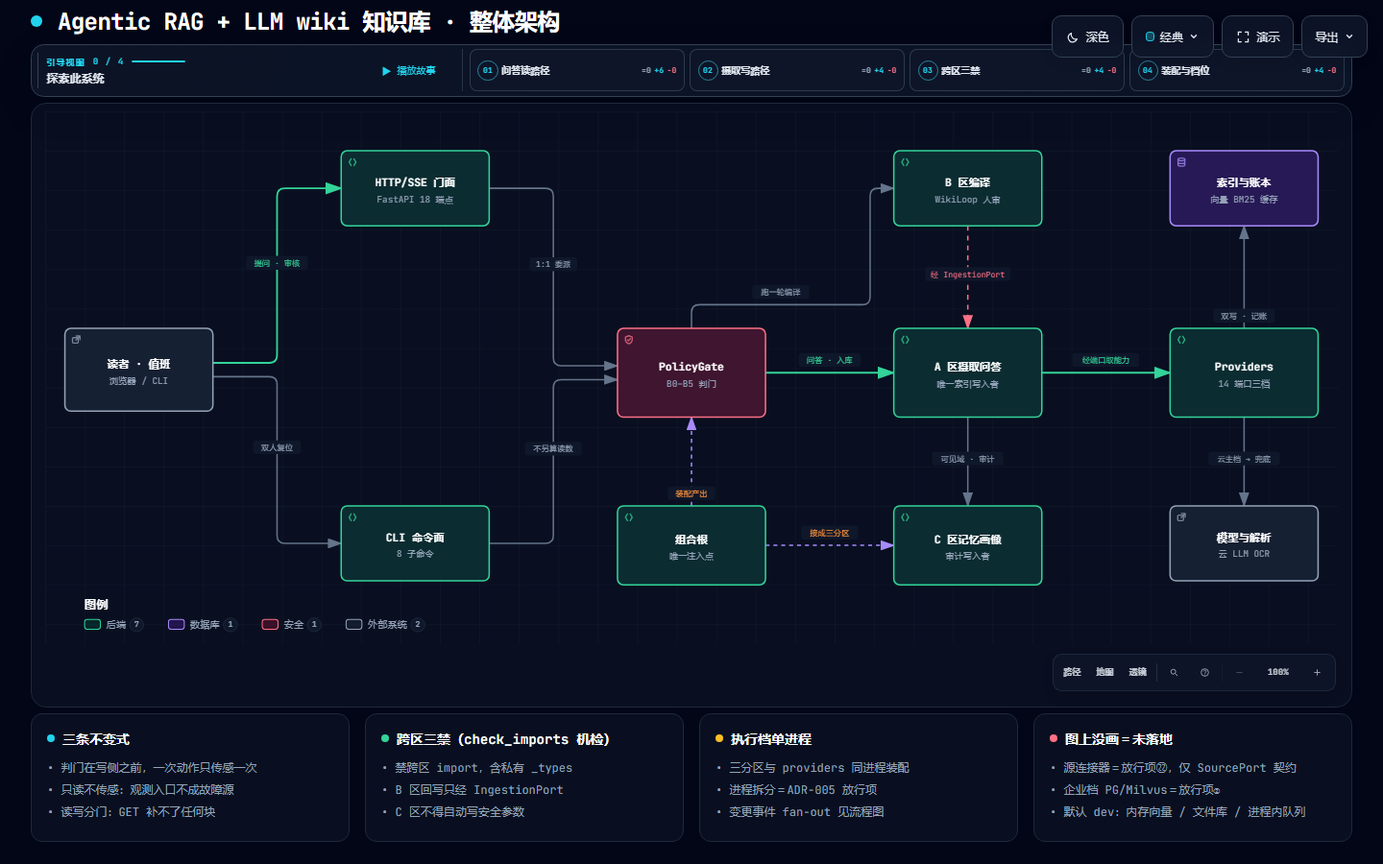
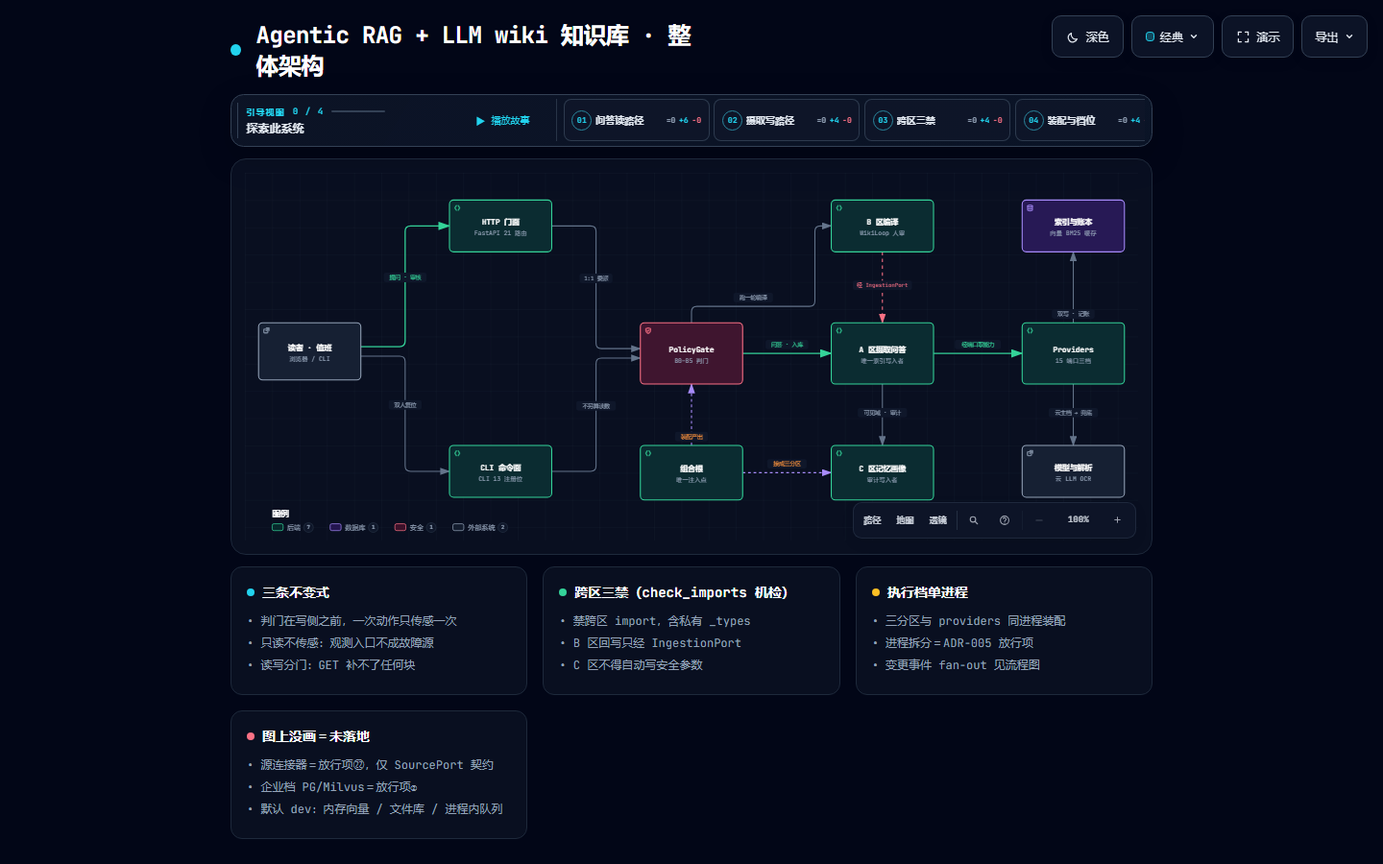
docs: 完善 GitHub 发布页并同步架构与安全门禁
- 重写 README，补充 Mermaid 架构、流程图、快速开始与能力边界
- 校准架构读数并清理本机路径，CI 移至仓库根且仅扫描跟踪文件

diff --git a/agentic-rag-wiki/docs/architecture/agentic-rag-wiki.architecture.html b/agentic-rag-wiki/docs/architecture/agentic-rag-wiki.architecture.html
@@ -5060,26 +5060,26 @@
         <text data-detail="context" x="95" y="276" class="t-muted" font-size="9" text-anchor="middle">浏览器 / CLI</text>
         </g>
 
-        <g id="node-http" data-node-id="http" data-node-label="HTTP/SSE 门面" tabindex="0" role="button" aria-label="聚焦HTTP/SSE 门面，FastAPI 18 端点, 架构组件" aria-pressed="false" data-node-kind="backend" data-node-sublabel="FastAPI 18 端点" data-node-context="架构组件">
-          <title>HTTP/SSE 门面 · FastAPI 18 端点 · 架构组件</title>
+        <g id="node-http" data-node-id="http" data-node-label="HTTP 门面" tabindex="0" role="button" aria-label="聚焦HTTP 门面，FastAPI 21 路由, 架构组件" aria-pressed="false" data-node-kind="backend" data-node-sublabel="FastAPI 21 路由" data-node-context="架构组件">
+          <title>HTTP 门面 · FastAPI 21 路由 · 架构组件</title>
           <rect x="300" y="40" width="150" height="76" rx="6" class="c-mask"/>
           <rect x="300" y="40" width="150" height="76" rx="6" class="c-backend" stroke-width="1.5"/>
           <g aria-hidden="true" data-semantic-sigil="backend" class="semantic-sigil s-backend" transform="translate(306 46) scale(0.6875)">
             <path d="M6 3 3 8l3 5M10 3l3 5-3 5"/>
           </g>
-          <text data-node-label="" data-detail-anchor="" x="375" y="76" class="t-primary" font-size="11" font-weight="600" text-anchor="middle">HTTP/SSE 门面</text>
-        <text data-detail="context" x="375" y="92" class="t-muted" font-size="9" text-anchor="middle">FastAPI 18 端点</text>
+          <text data-node-label="" data-detail-anchor="" x="375" y="76" class="t-primary" font-size="11" font-weight="600" text-anchor="middle">HTTP 门面</text>
+        <text data-detail="context" x="375" y="92" class="t-muted" font-size="9" text-anchor="middle">FastAPI 21 路由</text>
         </g>
 
-        <g id="node-cli" data-node-id="cli" data-node-label="CLI 命令面" tabindex="0" role="button" aria-label="聚焦CLI 命令面，8 子命令, 架构组件" aria-pressed="false" data-node-kind="backend" data-node-sublabel="8 子命令" data-node-tag="复位入口" data-node-context="架构组件">
-          <title>CLI 命令面 · 8 子命令 · 架构组件 · 复位入口</title>
+        <g id="node-cli" data-node-id="cli" data-node-label="CLI 命令面" tabindex="0" role="button" aria-label="聚焦CLI 命令面，CLI 13 注册位, 架构组件" aria-pressed="false" data-node-kind="backend" data-node-sublabel="CLI 13 注册位" data-node-tag="复位入口" data-node-context="架构组件">
+          <title>CLI 命令面 · CLI 13 注册位 · 架构组件 · 复位入口</title>
           <rect x="300" y="400" width="150" height="76" rx="6" class="c-mask"/>
           <rect x="300" y="400" width="150" height="76" rx="6" class="c-backend" stroke-width="1.5"/>
           <g aria-hidden="true" data-semantic-sigil="backend" class="semantic-sigil s-backend" transform="translate(306 406) scale(0.6875)">
             <path d="M6 3 3 8l3 5M10 3l3 5-3 5"/>
           </g>
           <text data-node-label="" data-detail-anchor="" x="375" y="436" class="t-primary" font-size="11" font-weight="600" text-anchor="middle">CLI 命令面</text>
-        <text data-detail="context" x="375" y="452" class="t-muted" font-size="9" text-anchor="middle">8 子命令</text>
+        <text data-detail="context" x="375" y="452" class="t-muted" font-size="9" text-anchor="middle">CLI 13 注册位</text>
         <text data-detail="fine" x="375" y="468" class="t-backend" font-size="7" text-anchor="middle">复位入口</text>
         </g>
 
@@ -5140,15 +5140,15 @@
         <text data-detail="context" x="935" y="454" class="t-muted" font-size="9" text-anchor="middle">审计写入者</text>
         </g>
 
-        <g id="node-ports" data-node-id="ports" data-node-label="Providers" tabindex="0" role="button" aria-label="聚焦Providers，14 端口三档, 架构组件" aria-pressed="false" data-node-kind="backend" data-node-sublabel="14 端口三档" data-node-context="架构组件">
-          <title>Providers · 14 端口三档 · 架构组件</title>
+        <g id="node-ports" data-node-id="ports" data-node-label="Providers" tabindex="0" role="button" aria-label="聚焦Providers，15 端口三档, 架构组件" aria-pressed="false" data-node-kind="backend" data-node-sublabel="15 端口三档" data-node-context="架构组件">
+          <title>Providers · 15 端口三档 · 架构组件</title>
           <rect x="1140" y="220" width="150" height="90" rx="6" class="c-mask"/>
           <rect x="1140" y="220" width="150" height="90" rx="6" class="c-backend" stroke-width="1.5"/>
           <g aria-hidden="true" data-semantic-sigil="backend" class="semantic-sigil s-backend" transform="translate(1146 226) scale(0.6875)">
             <path d="M6 3 3 8l3 5M10 3l3 5-3 5"/>
           </g>
           <text data-node-label="" data-detail-anchor="" x="1215" y="263" class="t-primary" font-size="11" font-weight="600" text-anchor="middle">Providers</text>
-        <text data-detail="context" x="1215" y="279" class="t-muted" font-size="9" text-anchor="middle">14 端口三档</text>
+        <text data-detail="context" x="1215" y="279" class="t-muted" font-size="9" text-anchor="middle">15 端口三档</text>
         </g>
 
         <g id="node-stores" data-node-id="stores" data-node-label="索引与账本" tabindex="0" role="button" aria-label="聚焦索引与账本，向量 BM25 缓存, 架构组件" aria-pressed="false" data-node-kind="database" data-node-sublabel="向量 BM25 缓存" data-node-context="架构组件">

diff --git a/agentic-rag-wiki/docs/architecture/agentic-rag-wiki.architecture.visual-check.html b/agentic-rag-wiki/docs/architecture/agentic-rag-wiki.architecture.visual-check.html
@@ -9,7 +9,7 @@
 </style>
 </head>
 <body>
-<header><h1>Archify visual-check</h1><p>agentic-rag-wiki.architecture.html · automated containment pass · visual review pending</p></header>
+<header><h1>Archify visual-check</h1><p>agentic-rag-wiki.architecture.html · automated containment pass · visual review passed</p></header>
 <main class="grid">
       <figure>
         <img src="agentic-rag-wiki.architecture.visual-check.1440x900.light.png" alt="light 1440 by 900">

diff --git a/bench/p3_confirm.py b/bench/p3_confirm.py
@@ -1,10 +1,11 @@
 # -*- coding: utf-8 -*-
 """P3 复测：加密批档找真实拐点 + 可复现性 + 超订行为确认"""
+import os
 import time
 import torch
 from sentence_transformers import SentenceTransformer
 
-MODEL = r"C:\Users\z1499\.cache\modelscope\models\Qwen--Qwen3-Embedding-0.6B\snapshots\master"
+MODEL = os.environ.get("P3_MODEL", "Qwen3-Embedding-0.6B")
 base = ("企业知识库制度文档示例段落，规定信息化项目的立项流程、预算审批权限与验收标准。"
         "项目组应当在启动前完成需求调研，并提交可行性研究报告供委员会评审。")
 chunk = (base * 20)[:950]

diff --git a/bench/p3_sustained.py b/bench/p3_sustained.py
@@ -3,13 +3,14 @@
 教训记录：v1 误用 tokenize(...)[0] 取到 BatchEncoding 首键，块长校准恒判为 6 token，
         实际跑了 ~1200 token 块，数据作废。v2 用 tok(text)['input_ids'] 计数。
 """
+import os
 import subprocess
 import time
 import torch
 from transformers import AutoTokenizer
 from sentence_transformers import SentenceTransformer
 
-MODEL = r"C:\Users\z1499\.cache\modelscope\models\Qwen--Qwen3-Embedding-0.6B\snapshots\master"
+MODEL = os.environ.get("P3_MODEL", "Qwen3-Embedding-0.6B")
 TARGET = 800
 PHYS_GB = torch.cuda.get_device_properties(0).total_memory / 2**30
 SUSTAIN = 150

diff --git a/README.md b/README.md
@@ -1,64 +1,206 @@
-# Agentic RAG + LLM Wiki 企业知识库
+<div align="center">
 
-一套「企业知识库系统」的完整工程蓝图 + 单机可跑实现骨架：**Agentic RAG**（多跳检索、引用溯源、拒答优于错答）+ **LLM Wiki**（LLM 持续把原始文档编译成人审发布的结构化知识页）。
+# Agentic RAG + LLM Wiki
 
-> **一句话定位**：架构按企业档（10 万员工 / 百万文档）设计，**执行档 = 单机缩量**（5 万文档 / 1 千变更每日 / ≤5 并发 / RTX 5060 8GB 全程可跑）。承诺只写在能亲手跑通的那一档；企业档与所有依赖真实世界输入的能力均按「诚实账」标注在放行清单里。
+**企业知识库问答 + 人审知识页编译回路**
+
+[![CI](https://github.com/wuyuwuqiu666/agentic-rag-wiki/actions/workflows/ci.yml/badge.svg)](https://github.com/wuyuwuqiu666/agentic-rag-wiki/actions/workflows/ci.yml)
+[![Python](https://img.shields.io/badge/Python-3.12-3776AB?logo=python&logoColor=white)](https://www.python.org/)
+[![PRD](https://img.shields.io/badge/PRD-v0.7.1-orange)](PRD-agentic-rag-llm-wiki.md)
+[![状态](https://img.shields.io/badge/status-review-yellow)](#状态与边界)
+
+[快速开始](#快速开始) · [架构总览](#架构总览) · [文档导航](#文档导航) · [提交记录](https://github.com/wuyuwuqiu666/agentic-rag-wiki/commits/master)
+
+</div>
+
+---
+
+一套「企业知识库系统」的完整工程蓝图 + 单机可跑实现骨架：**Agentic RAG** 负责多跳检索、引用溯源与低置信拒答；**LLM Wiki** 负责把原始文档持续编译成人审发布的结构化知识页。
+
+> **一句话定位**：架构按企业档（10 万员工 / 百万文档）设计，**执行档 = 单机缩量**（5 万文档 / 1 千变更每日 / ≤5 并发 / RTX 5060 8GB 全程可跑）。承诺只写在能亲手跑通的那一档；企业档与依赖真实世界输入的能力均按「诚实账」标注在放行清单里。
+>
+> **发布边界**：GitHub 仓库页发布源码、文档与架构图，不会直接运行 Python/FastAPI 后端。Web UI 需按下方步骤本地构建，并由 HTTP 门面同源伺服；本仓库不宣称已有云端演示或企业级在线服务。
 
 ## 核心特性
 
-- **一切皆组件**：15 个端口协议（Embedding / Rerank / Llm / VectorStore / Lexical / ObjectStore / Mq / Cache / Ocr / FileParser / Graph / Ingestion / Guard / Audit / Inflight），云端与本地双实现并存，组合根唯一注入，换实现只改装配、业务代码零改动。
-- **Agentic RAG**：ACL pre-filter → 向量 + BM25 双召回 → RRF(k=60) 融合 → cross-encoder rerank（≤50 候选）→ top-n 5–8 进 LLM；逐句引用校验、无据句拦截、低置信拒答、步数预算 ≤8。
-- **LLM Wiki**：triage 入选判定 → 大纲/草稿 → 人审发布门（代码不变式，草稿不可直发）→ 高权威块回写索引（wiki 优先）；回写 ACL = 源块交集（封跨源泄露）。
-- **分层熔断 B0–B5**：判定（零 IO 纯函数）与执行分离，规则 YAML as-code；v1 仅 B1（批量删除）/ B3（供给）/ B5（完整性）硬断，B2 软告警、B4 shadow；B0 总闸冻结写侧保读侧、双人复位、**重启不算复位**（append-only 审计回放）。
-- **护栏即代码**：10 道 harness 机检门（import 方向 / 跨区三禁 / 契约向后兼容 / 熔断规则 / 参数双级白名单 / 生命周期 / 配置面 / 后端选择 / runbook / 依赖许可证），每条约束都有测试锁。
-- **诚实账**：区分真实现与 dev/fake 档（默认 embedding/rerank/llm 为确定性哈希与模板回显，**不是质量基线**），22 项实机放行项逐条在册。
+- **一切皆组件**：`providers/ports.py` 定义 15 个 Provider Protocol；dev / local / cloud 多实现并存，组合根唯一注入，换实现只改装配，业务代码零 SDK import。
+- **Agentic RAG**：ACL pre-filter → 语义缓存 / 权威页优先 → 向量 + BM25 双召回 → RRF(k=60) 融合 → rerank（≤50 候选）→ top-n 5–8 进 LLM；逐句引用校验、无据句拦截、低置信拒答、步数预算 ≤8。
+- **LLM Wiki**：triage 入选判定 → 大纲 / 草稿 → 人审发布门（草稿不可直发）→ 高权威块经 `IngestionPort` 回写索引；回写 ACL = 源块交集，封跨源泄露。
+- **分层熔断 B0–B5**：判定（零 IO 纯函数）与执行分离，规则 YAML as-code；硬断双人复位，**重启不算复位**，append-only 审计回放。
+- **护栏即代码**：10 道 harness 机检门覆盖 import 方向、跨区三禁、契约兼容、熔断规则、参数白名单、生命周期、配置面、后端选择、runbook 与依赖许可证。
+- **诚实账**：默认 embedding / rerank / llm 为确定性哈希与模板回显，**不是模型质量基线**；真模型效果、真机性能、双存储持久化、外部源连接器与跨人治理流逐项登记，不伪造达标数字。
 
-## 目录结构
+## 架构总览
 
+```mermaid
+flowchart LR
+  U["员工 · 知识管理员 · 运维"] --> W["Web 前端"]
+  U --> CLI["CLI"]
+  W --> G["Gateway · 组合根"]
+  CLI --> G
+  G --> PG["PolicyGate · Inflight"]
+  G --> A["A 区 · 摄取与问答"]
+  G --> B["B 区 · Wiki 编译"]
+  G --> C["C 区 · 记忆与审计"]
+  PG -->|写侧判门| A
+  B -->|IngestionPort 唯一回写| A
+  C -->|可见域 · 审计| A
+  A --> D[("向量 · BM25 · 对象库 · 队列")]
+  P["平台 Providers · 15 个端口"] --> A
+  P --> B
+  P --> C
+  X["云 / 本地模型 · OCR · Office"] -.-> P
 ```
-.
-├── PRD-agentic-rag-llm-wiki.md          # 产品需求定义 v0.7.1（待 B1 评审）
-├── R8-ingest-performance-design.md      # 企业档摄取性能参考设计（归档）
-├── local-model-selection.md             # 本地模型选型调研
-├── bench/                               # P3 本机实测基准与脚本
-└── agentic-rag-wiki/
-    ├── AGENTS.md                        # 全局约束（唯一的全局记忆入口）
-    ├── pyproject.toml / .env.example    # 依赖装配表与配置模板
-    ├── src/
-    │   ├── platform/                    # 平台平面：types/config/providers/breaker/gateway/harness
-    │   └── partitions/                  # 三分区：ingest(A) / wiki(B) / memory(C)
-    ├── docs/adr/                        # 12 份架构决策记录（权威）
-    ├── docs/architecture/               # C4 架构图（Structurizr）与流程图
-    ├── docs/runbooks/                   # 熔断与运维处置页
-    ├── docs/audit/                      # 全生命周期审计台账（编号唯一源）
-    ├── hooks/                           # pre-commit / pre-release
-    └── tests/                           # smoke / contract / chaos / perf / eval（78 文件）
+
+**读图口径**：A / B / C 与 platform 都是逻辑容器，执行档默认单进程，不是五个独立部署单元；A 区是唯一索引写入者；虚线外部能力需显式装配，图中形状不代表已经上线。
+
+### 一次提问如何得到答案
+
+```mermaid
+flowchart TD
+  Q["提问"] --> ACL["ACL pre-filter"]
+  ACL --> CACHE{"语义缓存命中？"}
+  CACHE -->|是| OUT["带出处答案"]
+  CACHE -->|否| WIKI{"published 权威页？"}
+  WIKI -->|是| WOUT["权威页直答"]
+  WIKI -->|否| RET["向量 + BM25 双召回"]
+  RET --> FUSE["RRF 融合"]
+  FUSE --> RER["Rerank · 最多 50 候选"]
+  RER --> GEN["多跳规划 / LLM 生成"]
+  GEN --> CITE["逐句引用校验 · 低置信拒答"]
+  CITE --> DLP["出口 DLP"]
+  DLP --> OUT
 ```
+
+默认 `dev_echo` 只验证控制流与契约；真实模型质量需显式切到 local / cloud 档并另行评测。
+
+### 完整流程与架构资产
+
+<details>
+<summary>展开完整问答链 SVG</summary>
+
+![A 区问答链](agentic-rag-wiki/docs/architecture/preview-flow-ask.svg)
+
+</details>
+
+<details>
+<summary>展开完整摄取与生命周期 SVG</summary>
+
+![A 区摄取链与生命周期](agentic-rag-wiki/docs/architecture/preview-flow-ingest.svg)
+
+</details>
+
+| 资产 | 用途 |
+| --- | --- |
+| [交互式架构 HTML](agentic-rag-wiki/docs/architecture/agentic-rag-wiki.architecture.html) | 下载后用浏览器打开；支持明暗主题、路径聚焦与导出 |
+| [Structurizr DSL](agentic-rag-wiki/docs/architecture/agentic-rag-wiki.structurizr.dsl) | C4 语义源，7 个视图 |
+| [架构理解指南](agentic-rag-wiki/docs/architecture/agentic-rag-wiki.architecture-understanding.md) | 新人建立心智模型、评审者核对声称与执法、运维定位入口 |
+| [逐节点证据索引](agentic-rag-wiki/docs/architecture/agentic-rag-wiki.evidence.md) | 每个架构节点对应真实源码文件与置信档 |
+| [视觉检查页](agentic-rag-wiki/docs/architecture/agentic-rag-wiki.architecture.visual-check.html) | 下载后本地打开；明暗主题、两种视口的架构截图核对 |
 
 ## 快速开始
 
+### 1. 核心闭环（零外部服务）
+
 ```bash
-cd agentic-rag-wiki
-pip install -e ".[dev]"          # 核心依赖极简：pydantic 系列 + PyYAML；其余为可选 extra
-python -m pytest src/platform/breaker tests -q   # 一条命令跑全环
+git clone https://github.com/wuyuwuqiu666/agentic-rag-wiki.git
+cd agentic-rag-wiki/agentic-rag-wiki
+
+python -m venv .venv
+# Windows PowerShell: .venv\Scripts\Activate.ps1
+# macOS / Linux: source .venv/bin/activate
+
+python -m pip install -e ".[dev]"
+python -m pytest src/platform/breaker tests -q
 ```
 
-默认 `Settings` 全为 dev 档（零依赖、零外呼即可跑通闭环）。切真实档只改 `.env` 的 `APP_PROVIDERS__*` 装配位；选云档缺凭证、或非默认档缺驱动一律 fail-loud，**绝不静默回落**。详见 `AGENTS.md §1/§5` 与 `.env.example`。
+默认 `Settings` 全为 dev 档，零依赖外呼即可跑通闭环。切真实档只改 `.env` 的 `APP_PROVIDERS__*` 装配位；选云档缺凭证、或非默认档缺驱动一律 fail-loud，**绝不静默回落**。
+
+```bash
+cp .env.example .env  # Windows: copy .env.example .env
+```
+
+`.env` 已被 Git 忽略；真实凭证只从环境变量读取，禁止写进代码、配置模板或日志。
+
+### 2. Web UI（本地演示档）
+
+```bash
+python -m pip install -e ".[dev,http]"
+
+cd src/platform/gateway/web
+npm install
+npm run build
+cd ../../../..
+
+python -m src.platform.gateway.http
+```
+
+浏览器打开 <http://127.0.0.1:8000>。该页面使用合成 seed 语料验证「答案 ↔ 出处 ↔ Wiki」联动，不是真模型质量演示，也未实现 SSO / LDAP 鉴权。
+
+## 目录结构
+
+```text
+.
+├── .github/workflows/ci.yml             # GitHub Actions：测试、护栏、覆盖率与密钥门禁
+├── PRD-agentic-rag-llm-wiki.md          # 产品需求定义 v0.7.1（待 B1 评审）
+├── R8-ingest-performance-design.md      # 企业档摄取性能参考设计（归档）
+├── local-model-selection.md             # 本地模型选型调研
+├── bench/                               # 本机基准脚本与结果
+└── agentic-rag-wiki/
+    ├── AGENTS.md                        # 全局约束与实机放行清单
+    ├── pyproject.toml / .env.example    # 依赖装配表与配置模板
+    ├── src/
+    │   ├── platform/                    # types / config / providers / breaker / gateway / harness
+    │   └── partitions/                  # ingest(A) / wiki(B) / memory(C)
+    ├── docs/adr/                        # 架构决策记录
+    ├── docs/architecture/               # C4 / 交互式架构 / 两条流程 SVG
+    ├── docs/runbooks/                   # 熔断与运维处置页
+    ├── hooks/                           # pre-commit / pre-release
+    └── tests/                           # 76 个测试文件
+```
 
 ## 文档导航
 
 | 想了解什么 | 读哪里 |
 | --- | --- |
-| 系统目标 / 需求 / 验收口径 / 里程碑 | `PRD-agentic-rag-llm-wiki.md` |
-| 全局工程约束 / 诚实账 / 放行项清单 | `agentic-rag-wiki/AGENTS.md` |
-| 为什么这么设计、推翻过什么 | `agentic-rag-wiki/docs/adr/` |
-| 架构总览怎么读 | `agentic-rag-wiki/docs/architecture/agentic-rag-wiki.architecture-understanding.md` |
-| 运维处置流程 | `agentic-rag-wiki/docs/runbooks/` |
+| 系统目标 / 需求 / 验收口径 / 里程碑 | [PRD v0.7.1](PRD-agentic-rag-llm-wiki.md) |
+| 全局工程约束 / 诚实账 / 22 项实机放行清单 | [AGENTS.md](agentic-rag-wiki/AGENTS.md) |
+| 为什么这么设计、推翻过什么 | [ADR 目录](agentic-rag-wiki/docs/adr/) |
+| 架构图怎么读 | [架构理解指南](agentic-rag-wiki/docs/architecture/agentic-rag-wiki.architecture-understanding.md) |
+| 每个节点对应哪段代码 | [证据索引](agentic-rag-wiki/docs/architecture/agentic-rag-wiki.evidence.md) |
+| 熔断 / 对账 / 高危动作怎么处置 | [Runbooks](agentic-rag-wiki/docs/runbooks/) |
+| CI 具体执行哪些门 | [ci.yml](.github/workflows/ci.yml) |
 
-## 状态
+## 状态与边界
 
-离线可决面（代码 / 判定内核 / 护栏 / 机检）全部落地，全环约 **695 passed / 2 skipped**、10 道 harness 门全绿。真模型效果、真机性能、双存储持久化、外部源连接器与跨人治理流等依赖真实世界输入的能力，见 `AGENTS.md §8` 的 22 项实机放行清单——本仓库**不伪造这些达标数字**。
+### 本次发布前复核
+
+| 检查 | 结果 |
+| --- | --- |
+| 全量测试 | **699 total · 697 passed · 2 skipped · 0 failed** |
+| Lint / 类型 | `ruff` 通过；`mypy` 124 个源文件通过 |
+| Harness | **10 / 10 门通过** |
+| 前端构建 | `tsc + vite build` 通过 |
+| 发布安全 | 跟踪文件与新增改动完成密钥、本机路径、运行产物扫描；发现项已清理 |
+
+### 尚未冒充已交付的能力
+
+- 真模型幻觉率、相关性、拒答率与真实用户质量结论。
+- 企业档 PG / Milvus 双存储、跨进程共享账、S3 / Kafka 与真实 collection 别名。
+- SharePoint / OA / 网盘 / Git 等真实源连接器与增量调度。
+- SSO / LDAP、跨人审批分离、真实 ACL 归因与完整治理流。
+- 真机 1 QPS、P95、首 token 与 72 小时稳定性数字。
+
+完整口径见 [AGENTS.md](agentic-rag-wiki/AGENTS.md) §8「M4 实机放行项清单」。本仓库不伪造这些达标数字。
+
+## 安全发布约定
+
+- T1：凭证只走环境变量 + `.env.example`；日志脱敏；字面密钥提交即阻断。
+- T2：外部输入先在 service 层经 types schema 校验，再进入纯净内核。
+- T3：删除 / 覆盖 / 推送 / 外呼先确认 Git 基线、迁移方案与回滚点。
+- T4：新依赖核对来源与许可证；禁止 `--no-verify` 类绕过。
+- T5：真企业密级文档不入本机云出口；演示 / 开发语料只用公开或合成集。
 
 ## License
 
-见仓库内声明。项目处于评审阶段（PRD 状态：待 B1 评审）。
+本仓库暂未包含 `LICENSE` 文件，**未声明开源许可证**。正式开源、再分发或商用前请先取得作者授权；PRD 当前状态为 **待 B1 评审**。

diff --git a/agentic-rag-wiki/docs/architecture/agentic-rag-wiki.evidence.md b/agentic-rag-wiki/docs/architecture/agentic-rag-wiki.evidence.md
@@ -21,7 +21,7 @@
 | --- | --- | --- |
 | Web 前端 | `src/platform/gateway/web/`（Vite+React+TS+Tailwind v4+Motion），`http.py` 在 `web/dist` 存在时同源挂载 | high |
 | Gateway 应用 · 组合根 | `platform/gateway/composition.py`（docstring 自称"唯一注入点"） | high |
-| · HTTP/SSE 门面 | `platform/gateway/http.py` | high |
+| · HTTP 门面 | `platform/gateway/http.py` | high |
 | · CLI 命令面 | `platform/gateway/cli.py` | high |
 | · App / Admin façade | `platform/gateway/app.py` / `admin.py` | high |
 | · PolicyGate / InflightTracker | `platform/gateway/policy_gate.py` / `inflight.py` | high |
@@ -40,7 +40,7 @@
 | · IngestionPort | A 区暴露的 Protocol（B 区唯一回写通道） | high |
 | B 区 wiki 编译 | `src/partitions/wiki/runtime/loop.py` + `service/{compile,review,triage}.py` + `repo/pages.py` | high |
 | C 区 记忆与画像 | `src/partitions/memory/runtime/loop.py` + `service/{audit_sink,domain_scope,portrait_policy,param_proposal,report}.py` + `repo/portrait_store.py` | high |
-| 平台平面 | `platform/types/*.py`(6) · `config/settings.py` · `providers/`(28 文件) · `breaker/{engine,rules,pool,slo}.py` · `harness/`(10 门) | high |
+| 平台平面 | `platform/types/*.py`(6) · `config/settings.py` · `providers/`(28 文件、`ports.py` 15 个 Protocol) · `breaker/{engine,rules,pool,slo}.py` · `harness/`(10 门) | high |
 | 向量/词法/缓存/对象库/队列/审计/画像/产物 | `providers/vectorstore_{memory,pgvector,milvus}.py`、`bm25_dev.py`、`cache_memory.py`、`objectstore_{fs,s3}.py`、`mq_{pgqueue,kafka}.py`、`memory/service/audit_sink.py`、`artifact_dir` 下 reconcile/portraits | high |
 | 云 LLM / 云 Embedding·Rerank / 本地模型 / RapidOCR / 本机 Office | `providers/{llm_cloud,llm_local,llm_router,embedding_cloud,embedding_local,scan_ocr_rapid,fileparser_dev}.py` | high |
 | 真实源系统（SharePoint/OA/网盘/Git） | 无实现文件，仅 `SourcePort` 契约＋`DevSource` 内存档 | **unknown＝放行项㉒** |

diff --git a/agentic-rag-wiki/docs/architecture/agentic-rag-wiki.architecture-understanding.md b/agentic-rag-wiki/docs/architecture/agentic-rag-wiki.architecture-understanding.md
@@ -1,7 +1,8 @@
-# 架构图与流程图怎么读（现档 2026-10-14，M4-cn 之后）
+# 架构图与流程图怎么读（现档 2026-10-14；发布校订 2026-11-26）
 
 **目的**：给三类读者一份与代码逐点对齐的架构视图——①新人建立心智模型，②评审者核对"声称↔执法"，③运维定位动作落在哪个入口。
 **产物**：`agentic-rag-wiki.structurizr.dsl`（C4 语义源，7 个视图）+ `flow-ingest.dot` / `flow-ask.dot`（两条链的流程）+ `agentic-rag-wiki.evidence.md`（逐节点证据）。
+**当前入口读数**：HTTP 21 条路由、CLI 13 条注册位、`providers/ports.py` 15 个 Protocol。
 **用哪张答哪个问题**：
 
 | 问题 | 视图 |
